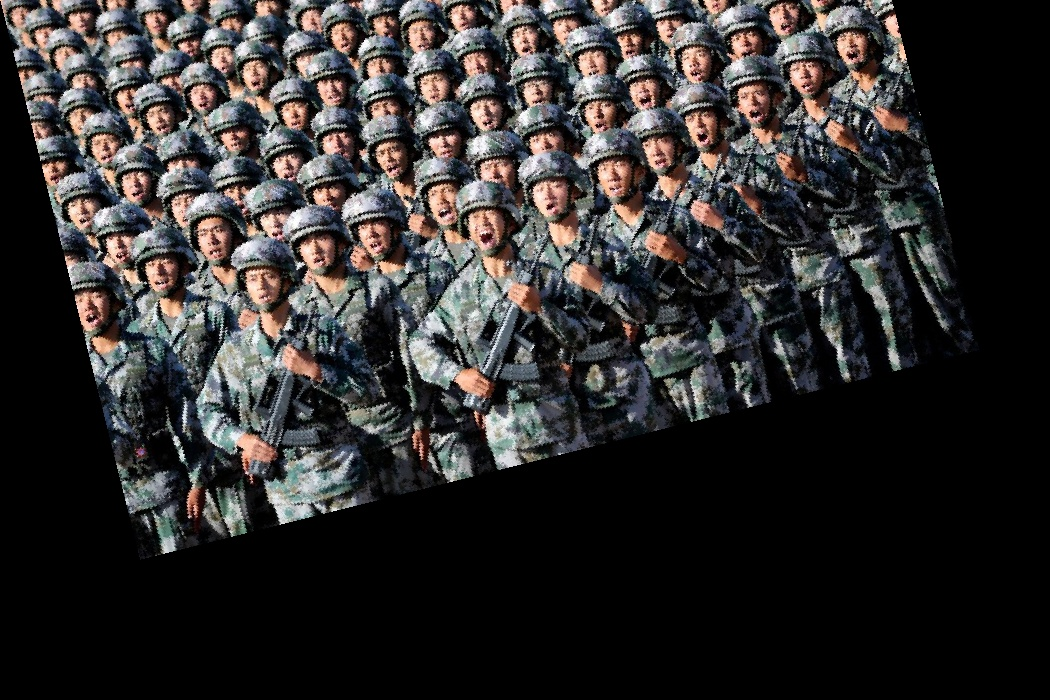
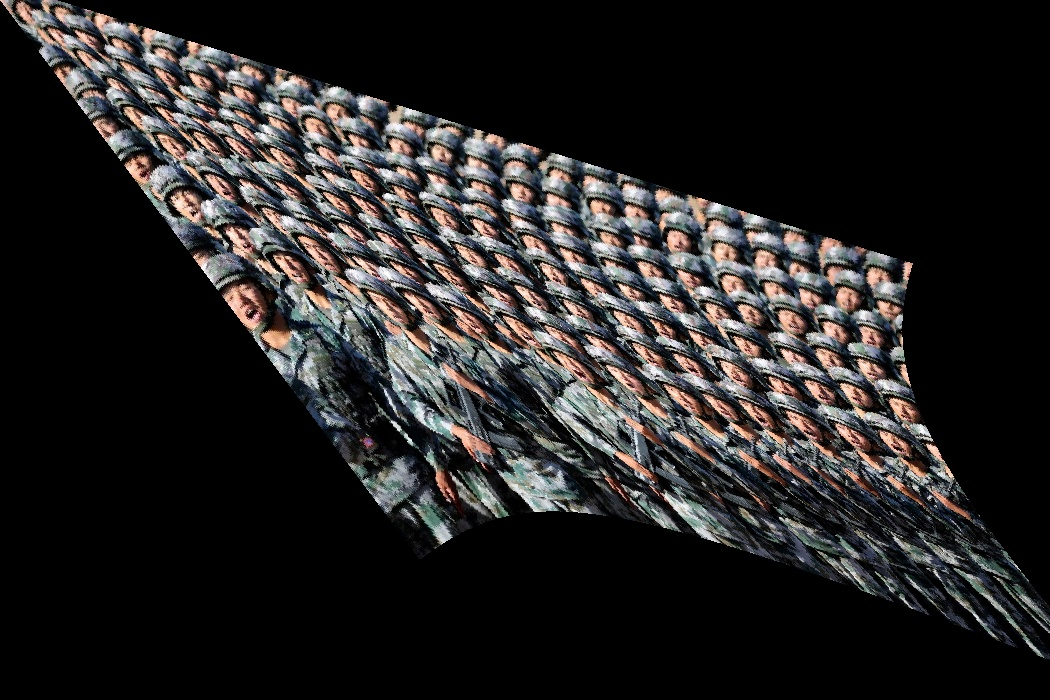
migrate multi-line to C++

diff --git a/multi.cpp b/multi.cpp
@@ -52,19 +52,27 @@ double projection_factor(Vec2d x, Vec2d y) {
 }
 
 void morph(Mat &dest, Mat src) {
-    pairs.push_back(lPair(Vec2d(0,0),Vec2d(0,1),Vec2d(0,0),Vec2d(0.2,0.8)));
-    for (lPair pair : pairs){
-        Vec2d PQ = pair.Q - pair.P;
-        Vec2d P_Q_ = pair.Q_ - pair.P_;
-        for (int y = 0; y < dest.size[0]; y++) {
-            for (int x = 0; x < dest.size[1]; x++) {
-                Vec2d X(x,y), XP = X-pair.P;
+    double a = 0.01, b = 2, p = 1;
+    pairs.push_back(lPair(Vec2d(0,0),Vec2d(0,300),Vec2d(0,0),Vec2d(180,240)));
+    pairs.push_back(lPair(Vec2d(100,0),Vec2d(400,0),Vec2d(90,10),Vec2d(350,90)));
+    for (int y = 0; y < dest.size[0]; y++) {
+        for (int x = 0; x < dest.size[1]; x++) {
+            Vec2d X(x,y), X_s(0,0);
+            double weights = 0;
+            for (lPair pair : pairs){
+                Vec2d PQ = pair.Q - pair.P;
+                Vec2d P_Q_ = pair.Q_ - pair.P_;
+                Vec2d XP = X-pair.P;
                 double u = projection_factor(PQ, XP);
                 Vec2d v = XP-u*PQ;
                 Vec2d v_ = Vec2d(-P_Q_[1],P_Q_[0])/mag(PQ) * mag(v)*cross_direction(PQ,XP);
                 Vec2d X_ = (pair.P_*(1-u) + pair.Q_*u) + v_;
-                dest.at<Vec4b>(y,x) = get_pixel(X_[1], X_[0], src);
+                double weight = pow(pow(mag(PQ),p)/(a+mag(v)),b);
+                X_s += (X_-X) * weight;
+                weights += weight;
             }
+            X_s = X + X_s/weights;
+            dest.at<Vec4b>(y,x) = get_pixel(X_s[1], X_s[0], src);
         }
     }
 }
